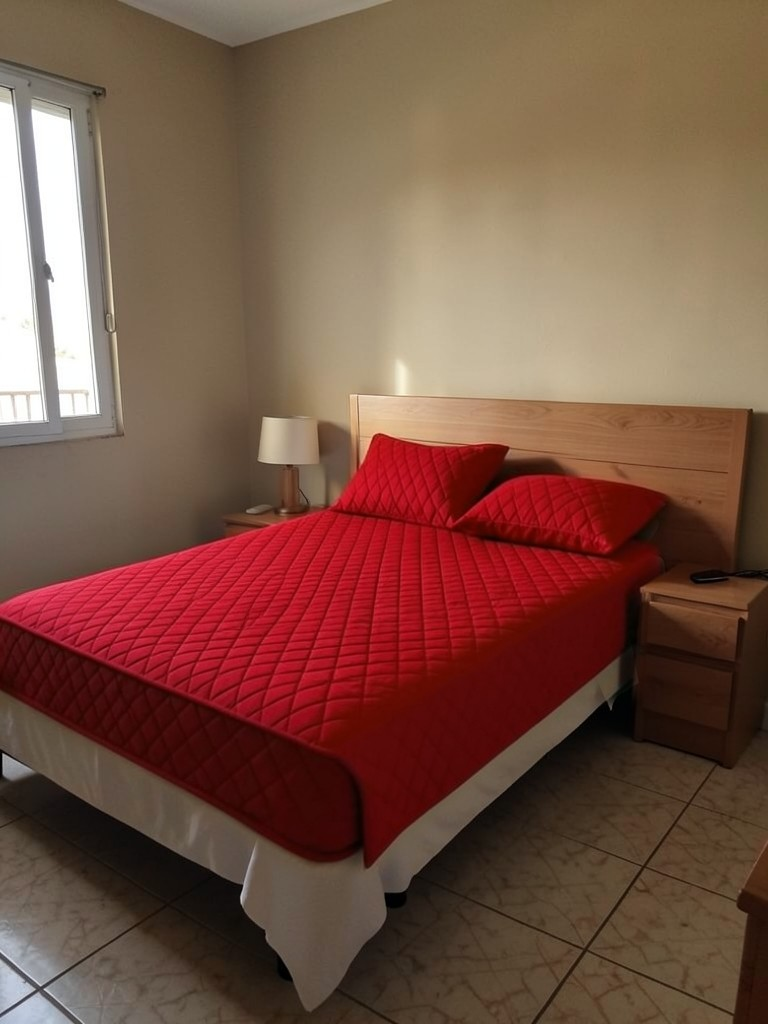
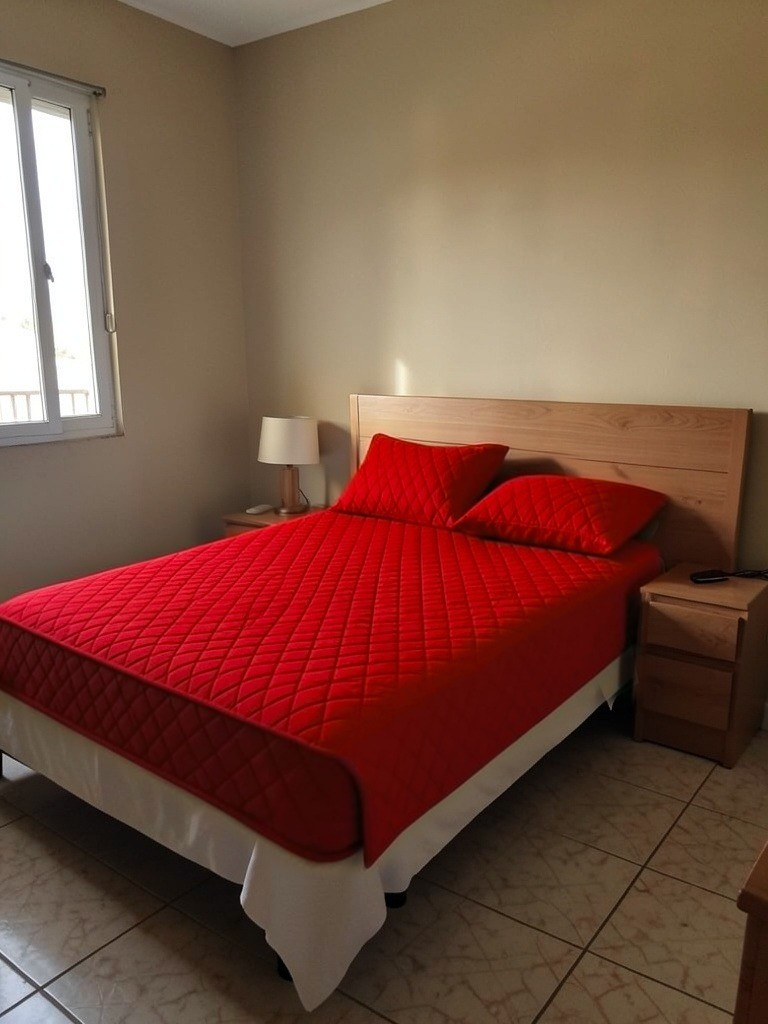
Probador v4.7 / servidor v6.6: mejor de 2 que no premia muebles copiados, recorte de tela por categoría y bloqueo de ropa infantil ampliado
- Selección entre versiones: castigo suave por color (0,1·ΔE) y fuerte solo si la tela cubre poco; la versión con cabecero copiado ya no gana.
- ref.js: zona de la tela como el rectángulo liso más grande (cuadrícula 20×20).
- embed.js v4.7: espera de Releasit de 5 s.
- Servidor v6.6: recorte solo en protector, sábanas, edredón, cobija, almohada y cortina; tope de 3 compras por visita en el panel; ruta de producto con mercado (/es-co/products/...); más palabras de ropa infantil bloqueadas; la revisión del cupo de IA corre en segundo plano.
- Demo: imagen del protector con el color corregido.

Claude-Session: https://claude.ai/code/session_01HhRL7fYhQ8VekdiooTn6v7

Changed region(s): [[0.125, 0.4375, 0.6875, 0.625], [0.625, 0.4688, 0.6875, 0.5]]

diff --git a/supabase/functions/vto-api/index.ts b/supabase/functions/vto-api/index.ts
@@ -1,4 +1,4 @@
-// vto-api v6.5 — Zynex Probador (backend). 18-oct-2026
+// vto-api v6.6 — Zynex Probador (backend). 18-oct-2026
 // Acciones (POST JSON {action, ...}):
 //   cfg     → configuración pública mínima de la tienda + ficha de sesión firmada (tok).
 //   ai      → foto realista con Cloudflare Workers AI (FLUX.2 klein 4B). El servidor resuelve el producto él mismo
@@ -84,7 +84,7 @@ const has = (t: string, words: string) => new RegExp(`(^| )(${words})( |$)`).tes
 const at = (t: string, words: string) => { const m = new RegExp(`(^| )(${words})( |$)`).exec(t); return m ? m.index : -1; };
 const BLOCKED = 'ropa interior|brasier|brasieres|bra|sosten|panty|pantys|tanga|tangas|boxer|boxers|calzon|calzoncillo|lenceria|bikini|bikinis|traje de bano|vestido de bano|banador|trusa|cachetero|bodysuit|body|faja|fajas|moldeador|moldeadora|shapewear|levanta gluteos|levanta cola|erotico|erotica|erotic|sexual|intimo|intima|sex|tanguita|hilo dental';
 // Solo para ropa (en hogar «transparente» o «malla» son normales: mantel transparente, organizador de malla)
-const BLOCKED_ROPA = 'sexy|transparente|transparentes|transparencia|transparencias|bralette|bralettes|babydoll|baby doll|corset|corsets|corse|corses|corpino|liguero|ligueros|camison|camisones|malla|mallas|encaje|encajes|infantil|infantiles|nino|nina|ninos|ninas|bebe|bebes|kids|kid|juvenil|escolar|colegial|colegio';
+const BLOCKED_ROPA = 'sexy|transparente|transparentes|transparencia|transparencias|bralette|bralettes|babydoll|baby doll|corset|corsets|corse|corses|corpino|liguero|ligueros|camison|camisones|malla|mallas|encaje|encajes|infantil|infantiles|nino|nina|ninos|ninas|bebe|bebes|bebito|bebita|kids|kid|juvenil|escolar|colegial|colegio|preescolar|primaria|girls|girl|boys|boy|baby|babies|teen|teens|toddler|toddlers|junior|juniors|adolescente|adolescentes|infante|infantes|chicos|nene|nena|nenes|nenas|peques|recien nacido';
 const NOT_HOME = 'pantalla|screen|celular|iphone|samsung|xiaomi|telefono|movil|camara|lente|lentes|solar|vidrio|templado|carro|auto|moto|vehiculo|parlante|cargador|bateria|audifonos|reloj|tablet|laptop|portatil|consola|perro|gato|mascota|bebe';
 const RULES: [string, string, string | null, string | null][] = [
   ['protector', 'protector|protectores', 'colchon|colchones|cama', NOT_HOME + '|espaldar|cabecero|cabecera|pintura|techo|pared'],
@@ -322,11 +322,8 @@ async function iaPausada() {
     else if (volvio > 0) v = false;
     else {
       const { data: turno } = await sb.rpc('vto_add_utc', { p_key: `cupo-prueba:${h}`, p_n: 1 });
-      if (turno === 1) {
-        const sec = await secrets();
-        const ok = !!sec.VTO_CF_API_TOKEN && (await cupoVolvio(sec));
-        await sb.rpc('vto_add_utc', { p_key: ok ? `cupo-volvio:${h}` : `cupo-sigue:${h}`, p_n: 1 });
-        v = !ok;
+      if (turno === 1) { // la prueba corre en segundo plano: esta respuesta sigue en pausa y las siguientes leen el resultado
+        enFondo((async () => { const sec = await secrets(); const ok = !!sec.VTO_CF_API_TOKEN && (await cupoVolvio(sec)); await sb.rpc('vto_add_utc', { p_key: ok ? `cupo-volvio:${h}` : `cupo-sigue:${h}`, p_n: 1 }); })().catch(() => {}));
       }
     }
   }
@@ -356,7 +353,8 @@ async function actionAI(body: any, req: Request) {
   // motor v6.5 (recorte de la tela + color medido + instrucciones por categoría): global con VTO_MOTOR=v65 o, para validarlo, en la demo con exp
   const v65 = sec.VTO_MOTOR === 'v65' || (t.plan === 'demo' && body.exp === 'v65');
   const rf = refOk(body.ref);
-  const imgUrl = productImageUrl(p, str(body.product, 1200), v65 && kind !== 'ropa' ? rf.box : null);
+  const RECORTE = new Set(['protector', 'sabanas', 'edredon', 'cobija', 'almohada', 'cortina']); // en forros, manteles y muebles la forma importa
+  const imgUrl = productImageUrl(p, str(body.product, 1200), v65 && RECORTE.has(kind) ? rf.box : null);
   if (!imgUrl) return [400, { error: 'imagen_no_valida' }];
   const values = new Set<string>((p.options || []).flatMap((o: any) => (Array.isArray(o?.values) ? o.values : [])).map((v: unknown) => String(v)));
   const color = values.has(str(body.color, 120)) ? colorEn(str(body.color, 120)) : '';
@@ -456,6 +454,7 @@ async function actionEvent(body: any, req: Request) {
     if (!tokId) return [403, { error: 'sesion' }];
     const { data: okTok } = await sb.rpc('vto_rate', { p_key: 'tok:' + tokId + '#ev', p_max: 80 }); // una visita no infla el panel
     if (okTok === false) return [429, { error: 'limite' }];
+    if (tipo === 'comprar' || tipo === 'kit') { const { data: okBuy } = await sb.rpc('vto_rate', { p_key: 'tok:' + tokId + '#buy', p_max: 3 }); if (okBuy === false) return [429, { error: 'limite' }]; }
   }
   const ip = await ipHash(req, sec.VTO_SALT || 'x');
   const { data: okRate } = await sb.rpc('vto_rate', { p_key: ip + '#ev', p_max: 400 });
@@ -500,7 +499,7 @@ const slackSafe = (s: string) => s.replace(/&/g, '&amp;').replace(/</g, '&lt;').
 
 // ¿El bloque está de verdad en la página publicada? El Origin se puede falsificar; la página de la tienda no.
 async function bloqueEnPagina(host: string, path: string, id: string) {
-  const p = /^\/[^\s?#<>"'|\\]{0,300}$/.test(path) ? path : '';
+  const p = /^\/(?:[a-z]{2}(?:-[a-z]{2})?\/)?products\/[a-z0-9][a-z0-9-]{0,200}\/?$/.test(path) ? path : ''; // solo la ficha de un producto
   if (!p || !shopHost(host)) return { ok: false, url: null as string | null };
   const url = `https://${host}${p}`;
   try {

diff --git a/js/ref.js b/js/ref.js
@@ -53,8 +53,10 @@ const NOMBRES = [
   [/beige|arena/, [78, 3, 15]], [/crema|hueso|marfil/, [90, 0, 12]], [/negr/, [12, 0, 0]], [/blanc/, [95, 0, 2]],
 ];
 const ESTAMPADO = /estampad|reno|estrella|navid|santa|flor|raya|cuadro|[aá]rbol|bast[oó]n|copo|dise[ñn]o|mix|combinad|punto|animal|infantil|coraz[oó]n|letra|\b(y|con)\b|[-/+]/;
+// solo la parte antes de «+» (ej. «Cortina gris oscuro + sábana vino tinto» → gris oscuro), igual que el servidor
+const primero = (nombre) => String(nombre || '').toLowerCase().split('+')[0];
 function objetivo(nombre) {
-  const t = String(nombre || '').toLowerCase();
+  const t = primero(nombre);
   for (const [re, l] of NOMBRES) if (re.test(t)) return l;
   return null;
 }
@@ -78,12 +80,35 @@ function analyze(im, colorName) {
   }
   if (S.length < 0.04 * tot) return null;
   const ref = [med(S.map((p) => p[0])), med(S.map((p) => p[1])), med(S.map((p) => p[2]))];
-  const xs = [], ys = []; for (let i = 0; i < P.length; i += 2) { xs.push(P[i]); ys.push(P[i + 1]); }
-  xs.sort((p, q) => p - q); ys.sort((p, q) => p - q);
-  const q = (a, f) => a[Math.min(a.length - 1, Math.max(0, Math.floor(f * a.length)))], m = 0.03;
-  const bx0 = Math.max(0, q(xs, 0.03) / W - m), bx1 = Math.min(1, q(xs, 0.97) / W + m), by0 = Math.max(0, q(ys, 0.03) / H - m), by1 = Math.min(1, q(ys, 0.97) / H + m);
-  const box = (bx1 - bx0) * (by1 - by0) > 0.06 ? [+bx0.toFixed(3), +by0.toFixed(3), +bx1.toFixed(3), +by1.toFixed(3)] : null;
-  const solid = !ESTAMPADO.test(String(colorName || '').toLowerCase());
+  // zona de la tela: rejilla de 20×20; celdas con ≥ 60 % de tela; el bloque conectado más grande (así no entran cabecero, base ni muebles)
+  const N = 20, cw = W / N, chh = H / N, hit = new Float32Array(N * N), cnt = new Float32Array(N * N);
+  for (let yy = y0; yy < y1; yy += 2) for (let xx = x0; xx < x1; xx += 2) cnt[Math.min(N - 1, (yy / chh) | 0) * N + Math.min(N - 1, (xx / cw) | 0)]++;
+  for (let i = 0; i < P.length; i += 2) hit[Math.min(N - 1, (P[i + 1] / chh) | 0) * N + Math.min(N - 1, (P[i] / cw) | 0)]++;
+  const on = Array.from({ length: N * N }, (_, i) => cnt[i] > 0 && hit[i] / cnt[i] >= 0.6), seen = new Uint8Array(N * N);
+  let best = null;
+  for (let i = 0; i < N * N; i++) {
+    if (!on[i] || seen[i]) continue;
+    const st = [i]; seen[i] = 1; let n = 0, cx0 = N, cy0 = N, cx1 = -1, cy1 = -1;
+    while (st.length) {
+      const c = st.pop(), cx = c % N, cy = (c / N) | 0; n++;
+      cx0 = Math.min(cx0, cx); cy0 = Math.min(cy0, cy); cx1 = Math.max(cx1, cx); cy1 = Math.max(cy1, cy);
+      for (const [dx, dy] of [[1, 0], [-1, 0], [0, 1], [0, -1]]) { const nx = cx + dx, ny = cy + dy, k = ny * N + nx; if (nx >= 0 && ny >= 0 && nx < N && ny < N && on[k] && !seen[k]) { seen[k] = 1; st.push(k); } }
+    }
+    if (!best || n > best.n) best = { n, cx0, cy0, cx1, cy1 };
+  }
+  let box = best && best.n >= 8 ? [best.cx0 / N, best.cy0 / N, (best.cx1 + 1) / N, (best.cy1 + 1) / N] : null;
+  // tela lisa: el rectángulo más grande hecho solo de celdas de tela (así el recorte no lleva cabecero, base ni muebles)
+  const solidName = !ESTAMPADO.test(primero(colorName).trim());
+  if (box && solidName) {
+    const hgt = new Array(N).fill(0); let mr = null;
+    for (let y = 0; y < N; y++) {
+      for (let x = 0; x < N; x++) hgt[x] = on[y * N + x] ? hgt[x] + 1 : 0;
+      for (let x = 0; x < N; x++) { let hmin = N; for (let x2 = x; x2 < N && hgt[x2]; x2++) { hmin = Math.min(hmin, hgt[x2]); const a = hmin * (x2 - x + 1); if (!mr || a > mr.a) mr = { a, x0: x, x1: x2, y1: y, y0: y - hmin + 1 }; } }
+    }
+    if (mr && mr.a >= 0.12 * N * N) box = [mr.x0 / N, mr.y0 / N, (mr.x1 + 1) / N, (mr.y1 + 1) / N];
+  }
+  if (box) box = box.map((v) => +v.toFixed(3));
+  const solid = solidName;
   const [r, g, b] = rgb(...ref);
   return { lab: ref.map((v) => +v.toFixed(1)), hex: '#' + [r, g, b].map((v) => v.toString(16).padStart(2, '0')).join(''), solid, share: +(S.length / tot).toFixed(2), box, palette: [ref.map((v) => +v.toFixed(1))] };
 }

diff --git a/js/app.js b/js/app.js
@@ -122,6 +122,7 @@ async function loadProduct(handle) {
   if (P.kind === 'otro') return fatal('Este producto aún no tiene probador.', 'Puedes verlo y comprarlo normal en la tienda.');
   G = GROUP[P.kind] || 'cama'; C = COPY[G];
   $('#illu use').setAttribute('href', '#' + ILLU[G]);
+  $('#emptyT').textContent = C.empty; $('#emptyS').textContent = C.tip; // antes de cualquier aviso, para que el texto corresponda a la ilustración
   if (G === 'ropa') { await cfgReady; if (!CFG.ropa) return DEMO ? fatal(...ERR_DEMO.ropa_no_disponible) : fatal('La prueba de ropa no está disponible por ahora.', 'Puedes verla y comprarla normal en la tienda.'); }
   $('#consent').hidden = G !== 'ropa'; syncConsent();
   document.title = `${C.title} · ${P.shopName || SHOP}`;
@@ -145,7 +146,7 @@ async function loadProduct(handle) {
 
 function pausaIA() { // cupo de IA agotado hoy: se avisa antes de pedir la foto
   lastErr = 'ia_cupo_diario';
-  fatal('El probador está en pausa por unas horas', DEMO ? `La demo en vivo vuelve ${vuelveIA()}. Mientras tanto, mira los ejemplos reales de esta página.` : `Vuelve ${vuelveIA()}. Mientras tanto puedes comprar normal desde la tienda.`);
+  fatal('El probador está en pausa', DEMO ? `La demo en vivo vuelve ${vuelveIA()}. Mientras tanto, mira los ejemplos reales de esta página.` : `Vuelve ${vuelveIA()}. Mientras tanto puedes comprar normal desde la tienda.`);
 }
 function fatal(t, s = '') {
   setState('error'); showErr(null, t, s); $('#btnRetry').hidden = true;
@@ -426,7 +427,8 @@ async function generate(retry = true) {
 // Fusión fiel: llegan 2 versiones de la IA; se queda la que mejor conserva tu foto real (cuarto, cara, luz)
 // y, si calza, se funde con tus píxeles originales. Si ninguna calza, se muestra la más fiel tal cual.
 // Mejor de 2: gana la versión que funde con la foto real, conserva el color de la tela y no trae objetos nuevos
-const castigo = (inf) => { const p = inf.prod; if (!p) return 0; return (p.dE != null ? 0.5 * p.dE : 0) + 35 * p.nuevo + (p.frac < 0.25 ? 12 : 0); };
+// el fondo intacto manda (un cabecero copiado sube ese error); el color de la tela solo desempata; castigo fuerte si casi no aparece la tela
+const castigo = (inf) => { const p = inf.prod; if (!p) return 0; return (p.dE != null ? 0.1 * p.dE : 0) + (p.frac < 0.25 ? 12 : 0); };
 async function fuseResult(ph, gens, ref = null) {
   let o; try { o = await loadImage(ph.data); } catch { return { src: gens[0], info: { motivo: 'error' }, i: 0, n: gens.length }; }
   let best = null;

diff --git a/embed.js b/embed.js
@@ -1,4 +1,4 @@
-/*! Zynex Probador · botón para la página de producto de Shopify · v4.4 · 2026-10-18
+/*! Zynex Probador · botón para la página de producto de Shopify · v4.7 · 2026-10-18
    Uso: <div data-zvto data-t="TU-TIENDA" data-h="{{ product.handle }}" data-v="{{ product.selected_or_first_available_variant.id }}" data-title="{{ product.title | escape }}" data-type="{{ product.type | escape }}"></div>
         <script src="https://<este-dominio>/embed.js" defer></script>
    Opcional, para la marca: data-label="Pruébalo en tu cama" data-bg="#000000" data-fg="#ffffff" data-accent="#00ff88" data-radius="12" */
@@ -123,7 +123,7 @@
         for (i = 0; i < adds.length && !b; i++) if (visible(adds[i])) b = adds[i];
       }
       if (b) { b.scrollIntoView({ block: 'center', behavior: 'smooth' }); setTimeout(function () { b.click(); setTimeout(function () { wait(false); }, 1200); }, 450); try { sessionStorage.removeItem('zvto:compra'); } catch (x) {} return; }
-      if (++tries < 32) return void setTimeout(tick, 250);
+      if (++tries < 20) return void setTimeout(tick, 250);
       if (variant) toCart(variant); else wait(false);
     })();
   }
